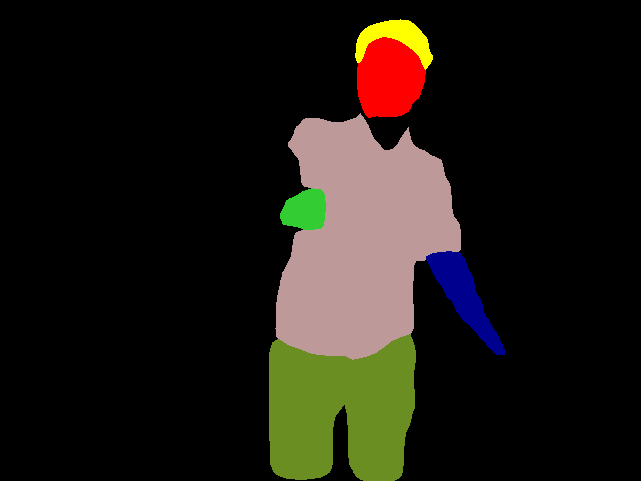
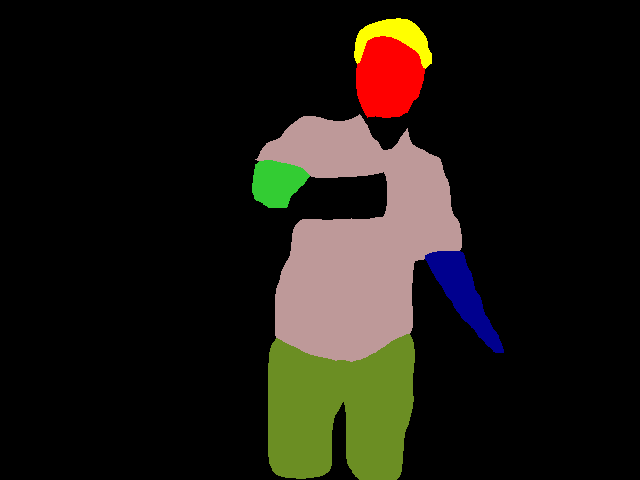
add padding function

diff --git a/scripts/test_segmentation.py b/scripts/test_segmentation.py
@@ -10,9 +10,10 @@ caffe_root = os.path.dirname(os.path.realpath(__file__)) + "/../caffe_ssl/"
 sys.path.insert(0, caffe_root + '/build/install/python')
 
 import caffe
-caffe.set_mode_gpu()
+caffe.set_mode_cpu()
 sys.path.append('/usr/local/lib/python2.7/site-packages')
 import cv2
+from padding import padding
 
 classes = ['background', 'hat', 'hair', 'glove', 'sunglasses', 'upperclothes',
            'dress', 'coat', 'socks', 'pants', 'jumpsuits', 'scarf', 'skirt',
@@ -34,8 +35,9 @@ if __name__ == '__main__':
 
     output_shape = net.blobs['fc8_interp'].data.shape
 
-    imgfile = os.path.dirname(os.path.realpath(__file__)) + "/../images/frame0007.jpg"
+    imgfile = os.path.dirname(os.path.realpath(__file__)) + "/../images/frame0006.jpg"
     img = cv2.imread(imgfile, 1)
+    img = padding(img, 1)
     img = img.astype(np.float32)
     img -= mean
     img = cv2.resize(img, (640, 480), interpolation=cv2.INTER_LINEAR)
@@ -44,6 +46,7 @@ if __name__ == '__main__':
     out = net.forward()
 
     prediction = net.blobs['fc8_mask'].data[0, ...][0]
+    prediction = prediction[1 : 481, 1 : 641]
     prediction = prediction.astype(np.int8)
     prediction = cv2.merge((prediction, prediction, prediction))
 

diff --git a/scripts/padding.py b/scripts/padding.py
@@ -1,0 +1,22 @@
+#!/usr/bin/env python
+# -*- coding: utf-8 -*-
+
+from __future__ import print_function
+import numpy as np
+import cv2
+import os
+
+def padding(img, alpha):
+    h, w = img.shape[:2]
+    base_size = h + alpha, w + alpha, 3
+    base=np.zeros(base_size, dtype = np.uint8)
+    cv2.rectangle(base, (0, 0), (w + alpha, h + alpha),(0, 0, 0))
+    base[alpha : h + alpha, alpha : w + alpha] = img
+    # cv2.imwrite("temp.jpg", base)
+    return base
+    
+if __name__=="__main__":    
+    imgfile = os.path.dirname(os.path.realpath(__file__)) + "/../images/frame0006.jpg"
+    img = cv2.imread(imgfile)
+    padding(img, 5)
+    
